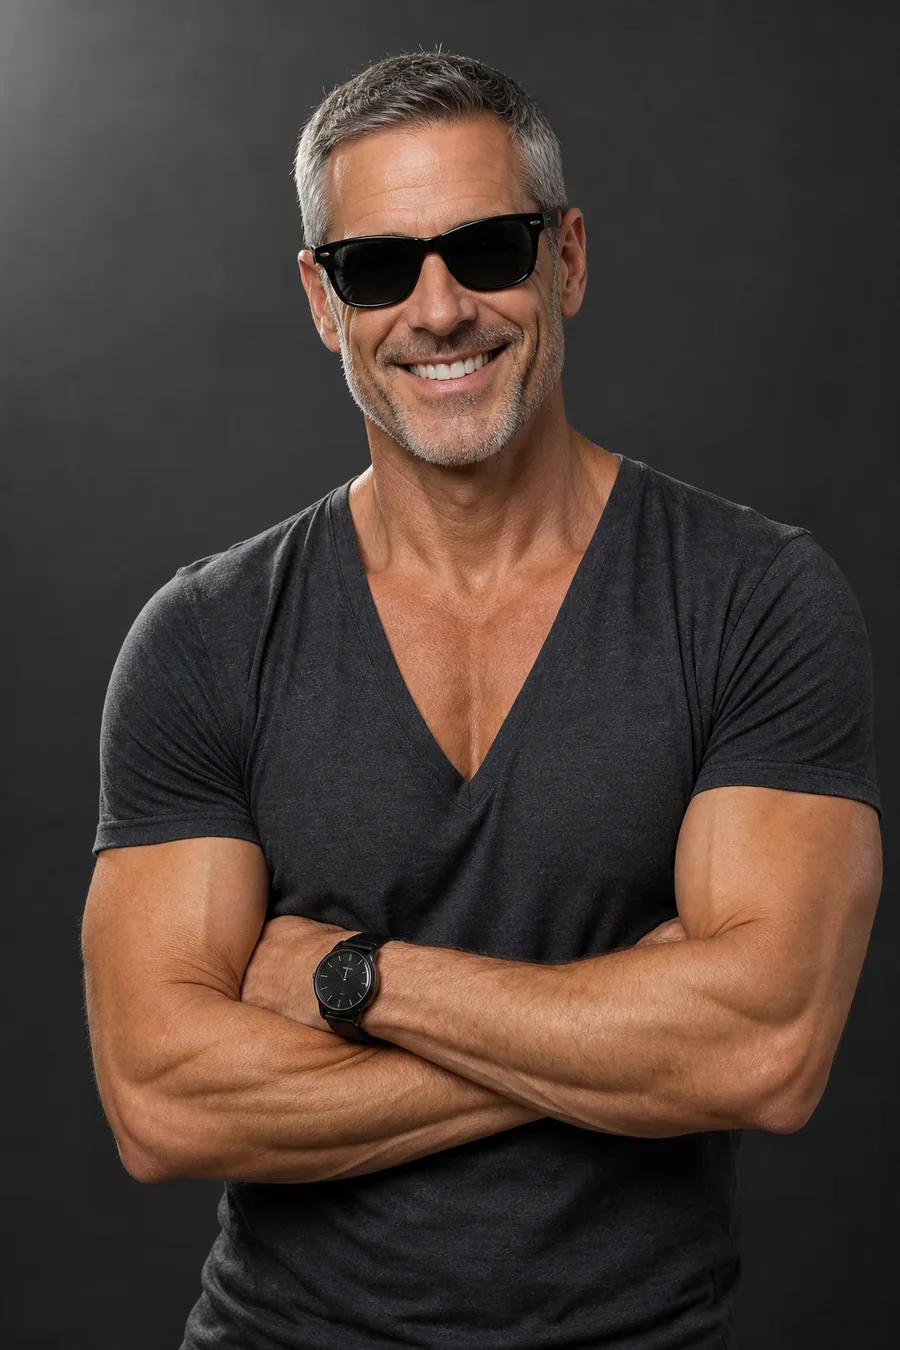
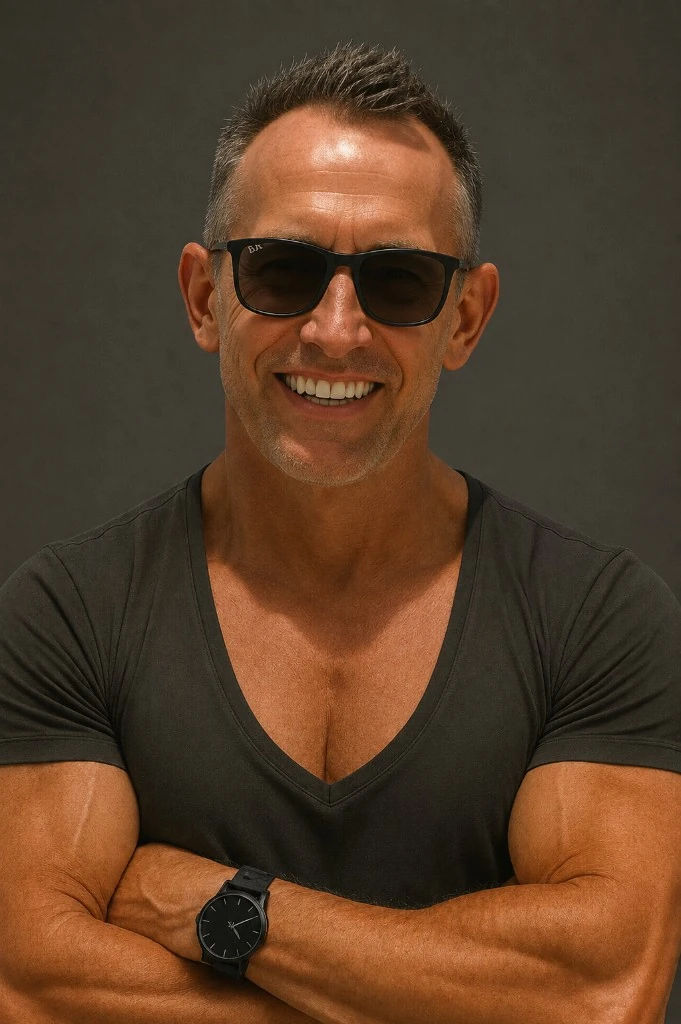
fix: ritratto originale di Michele in home al posto della foto AI

diff --git a/index.html b/index.html
@@ -8,7 +8,7 @@
 <meta name="description" content="Ciclo annuale di Michele Baldan: 4 fasi, 3 schede a settimana (AB AC CB), priorità parte alta.">
 <link rel="icon" href="/favicon.svg" type="image/svg+xml">
 <link rel="stylesheet" href="/css/styles.css?v=48">
-<link rel="stylesheet" href="/admin/css/admin.css?v=12">
+<link rel="stylesheet" href="/admin/css/admin.css?v=13">
 <script src="/js/site-base.js"></script>
 </head>
 <body class="admin-page">
@@ -30,11 +30,7 @@
     <div class="wrap">
       <div class="atleta-hero panel-raised">
         <figure class="atleta-hero__photo">
-          <span class="ai-photo-wrap">
-            <img src="/admin/img/michele/michele-baldan.webp" width="900" height="1350" alt="Michele Baldan, 50 anni" data-ai="generated">
-            <span class="ai-photo-mark" aria-hidden="true">Foto AI</span>
-          </span>
-          <figcaption class="fig-credit"><span class="ai-badge" aria-hidden="true">IA</span> Ritratto di riferimento generato con IA · <a href="/trasparenza-ai/">Trasparenza</a></figcaption>
+          <img src="/admin/img/michele/michele-baldan.webp?v=3" width="681" height="1024" alt="Michele Baldan">
         </figure>
         <div class="atleta-hero__dati">
           <p class="tagline">Atleta</p>
@@ -63,7 +59,7 @@
   <div class="wrap"><p><small>Michele Baldan · 4 fasi · AB · AC · CB</small></p></div>
 </footer>
 <script src="/js/main.js?v=19" defer></script>
-<script src="/js/cookie-consent.js" defer></script>
+<script src="/js/cookie-consent.js?v=2" defer></script>
 <script src="/admin/js/dashboard.js?v=7" defer></script>
 </body>
 </html>

diff --git a/trasparenza-ai/index.html b/trasparenza-ai/index.html
@@ -28,7 +28,7 @@
     <h1>Trasparenza sull’uso dell’intelligenza artificiale</h1>
     <p class="legal-doc__meta">Ultimo aggiornamento: <time datetime="2026-08-16">16 agosto 2026</time> · Regolamento (UE) 2024/1689 (AI Act) · art. 50</p>
     <ul>
-      <li><strong>Ritratto in home:</strong> <code>admin/img/michele/michele-baldan.webp</code> è un ritratto di riferimento <strong>generato con IA</strong> (marchio «Foto AI», <code>data-ai="generated"</code>). Sostituibile con foto originale di Michele Baldan senza etichetta IA.</li>
+      <li><strong>Ritratto in home:</strong> foto originale di Michele Baldan (<code>admin/img/michele/michele-baldan.webp</code>) — nessuna etichetta IA.</li>
       <li><strong>Figure esercizi:</strong> SVG tecnici originali in <code>/admin/img/esercizi-sprite.svg</code> — niente marchio Foto AI.</li>
       <li>Il PDF palestra è anonimo: il nome non è stampato in automatico.</li>
     </ul>
@@ -39,6 +39,6 @@
   <div class="wrap"><p><small>AI Act UE</small></p></div>
 </footer>
 <script src="/js/main.js?v=19" defer></script>
-<script src="/js/cookie-consent.js" defer></script>
+<script src="/js/cookie-consent.js?v=2" defer></script>
 </body>
 </html>

diff --git a/admin/index.html b/admin/index.html
@@ -7,7 +7,7 @@
 <meta name="robots" content="noindex, nofollow">
 <link rel="icon" href="/favicon.svg" type="image/svg+xml">
 <link rel="stylesheet" href="/css/styles.css?v=48">
-<link rel="stylesheet" href="/admin/css/admin.css?v=12">
+<link rel="stylesheet" href="/admin/css/admin.css?v=13">
 <script src="/js/site-base.js"></script>
 </head>
 <body class="admin-page">
@@ -29,11 +29,7 @@
     <div class="wrap">
       <div class="atleta-hero panel-raised">
         <figure class="atleta-hero__photo">
-          <span class="ai-photo-wrap">
-            <img src="/admin/img/michele/michele-baldan.webp" width="900" height="1350" alt="Michele Baldan, 50 anni" data-ai="generated">
-            <span class="ai-photo-mark" aria-hidden="true">Foto AI</span>
-          </span>
-          <figcaption class="fig-credit"><span class="ai-badge" aria-hidden="true">IA</span> Ritratto di riferimento generato con IA · <a href="/trasparenza-ai/">Trasparenza</a></figcaption>
+          <img src="/admin/img/michele/michele-baldan.webp?v=3" width="681" height="1024" alt="Michele Baldan">
         </figure>
         <div class="atleta-hero__dati">
           <p class="tagline">Atleta</p>

diff --git a/js/cookie-consent.js b/js/cookie-consent.js
@@ -7,7 +7,7 @@
     ai.className = "ai-site-notice";
     ai.setAttribute("role", "note");
     ai.innerHTML =
-      'Il ritratto in home è <strong>generato con IA</strong> (marchio «Foto AI»). Le figure degli esercizi sono SVG tecnici. ' +
+      'Il ritratto in home è una <strong>foto originale</strong>. Le figure degli esercizi sono SVG tecnici. ' +
       'Dettagli: <a href="' + (window.fqUrl ? window.fqUrl("/trasparenza-ai/") : "/trasparenza-ai/") + '">Trasparenza AI (AI Act UE)</a>.';
     footer.appendChild(ai);
   }

diff --git a/admin/css/admin.css b/admin/css/admin.css
@@ -676,9 +676,9 @@
 .atleta-hero__photo img {
   width: 100%;
   height: auto;
-  aspect-ratio: 3 / 4;
+  aspect-ratio: 2 / 3;
   object-fit: cover;
-  object-position: top center;
+  object-position: center 20%;
   border-radius: 12px;
 }
 .atleta-hero__dati .tagline {

diff --git a/SKILL.md b/SKILL.md
@@ -32,7 +32,7 @@ Markup: `.cursor/rules/ai-trasparenza.mdc`.
 | Età | 50 |
 | Anni palestra / infortuni / livello | solo se forniti; altrimenti `null` |
 
-Il ritratto va la **foto originale**. Se in repo c’è ancora un webp IA, restano `data-ai` e «Foto AI» finché il file originale non sostituisce `admin/img/michele/michele-baldan.webp`.
+Il ritratto è la **foto originale** in `admin/img/michele/michele-baldan.webp` — niente `data-ai` né «Foto AI».
 
 ---
 
